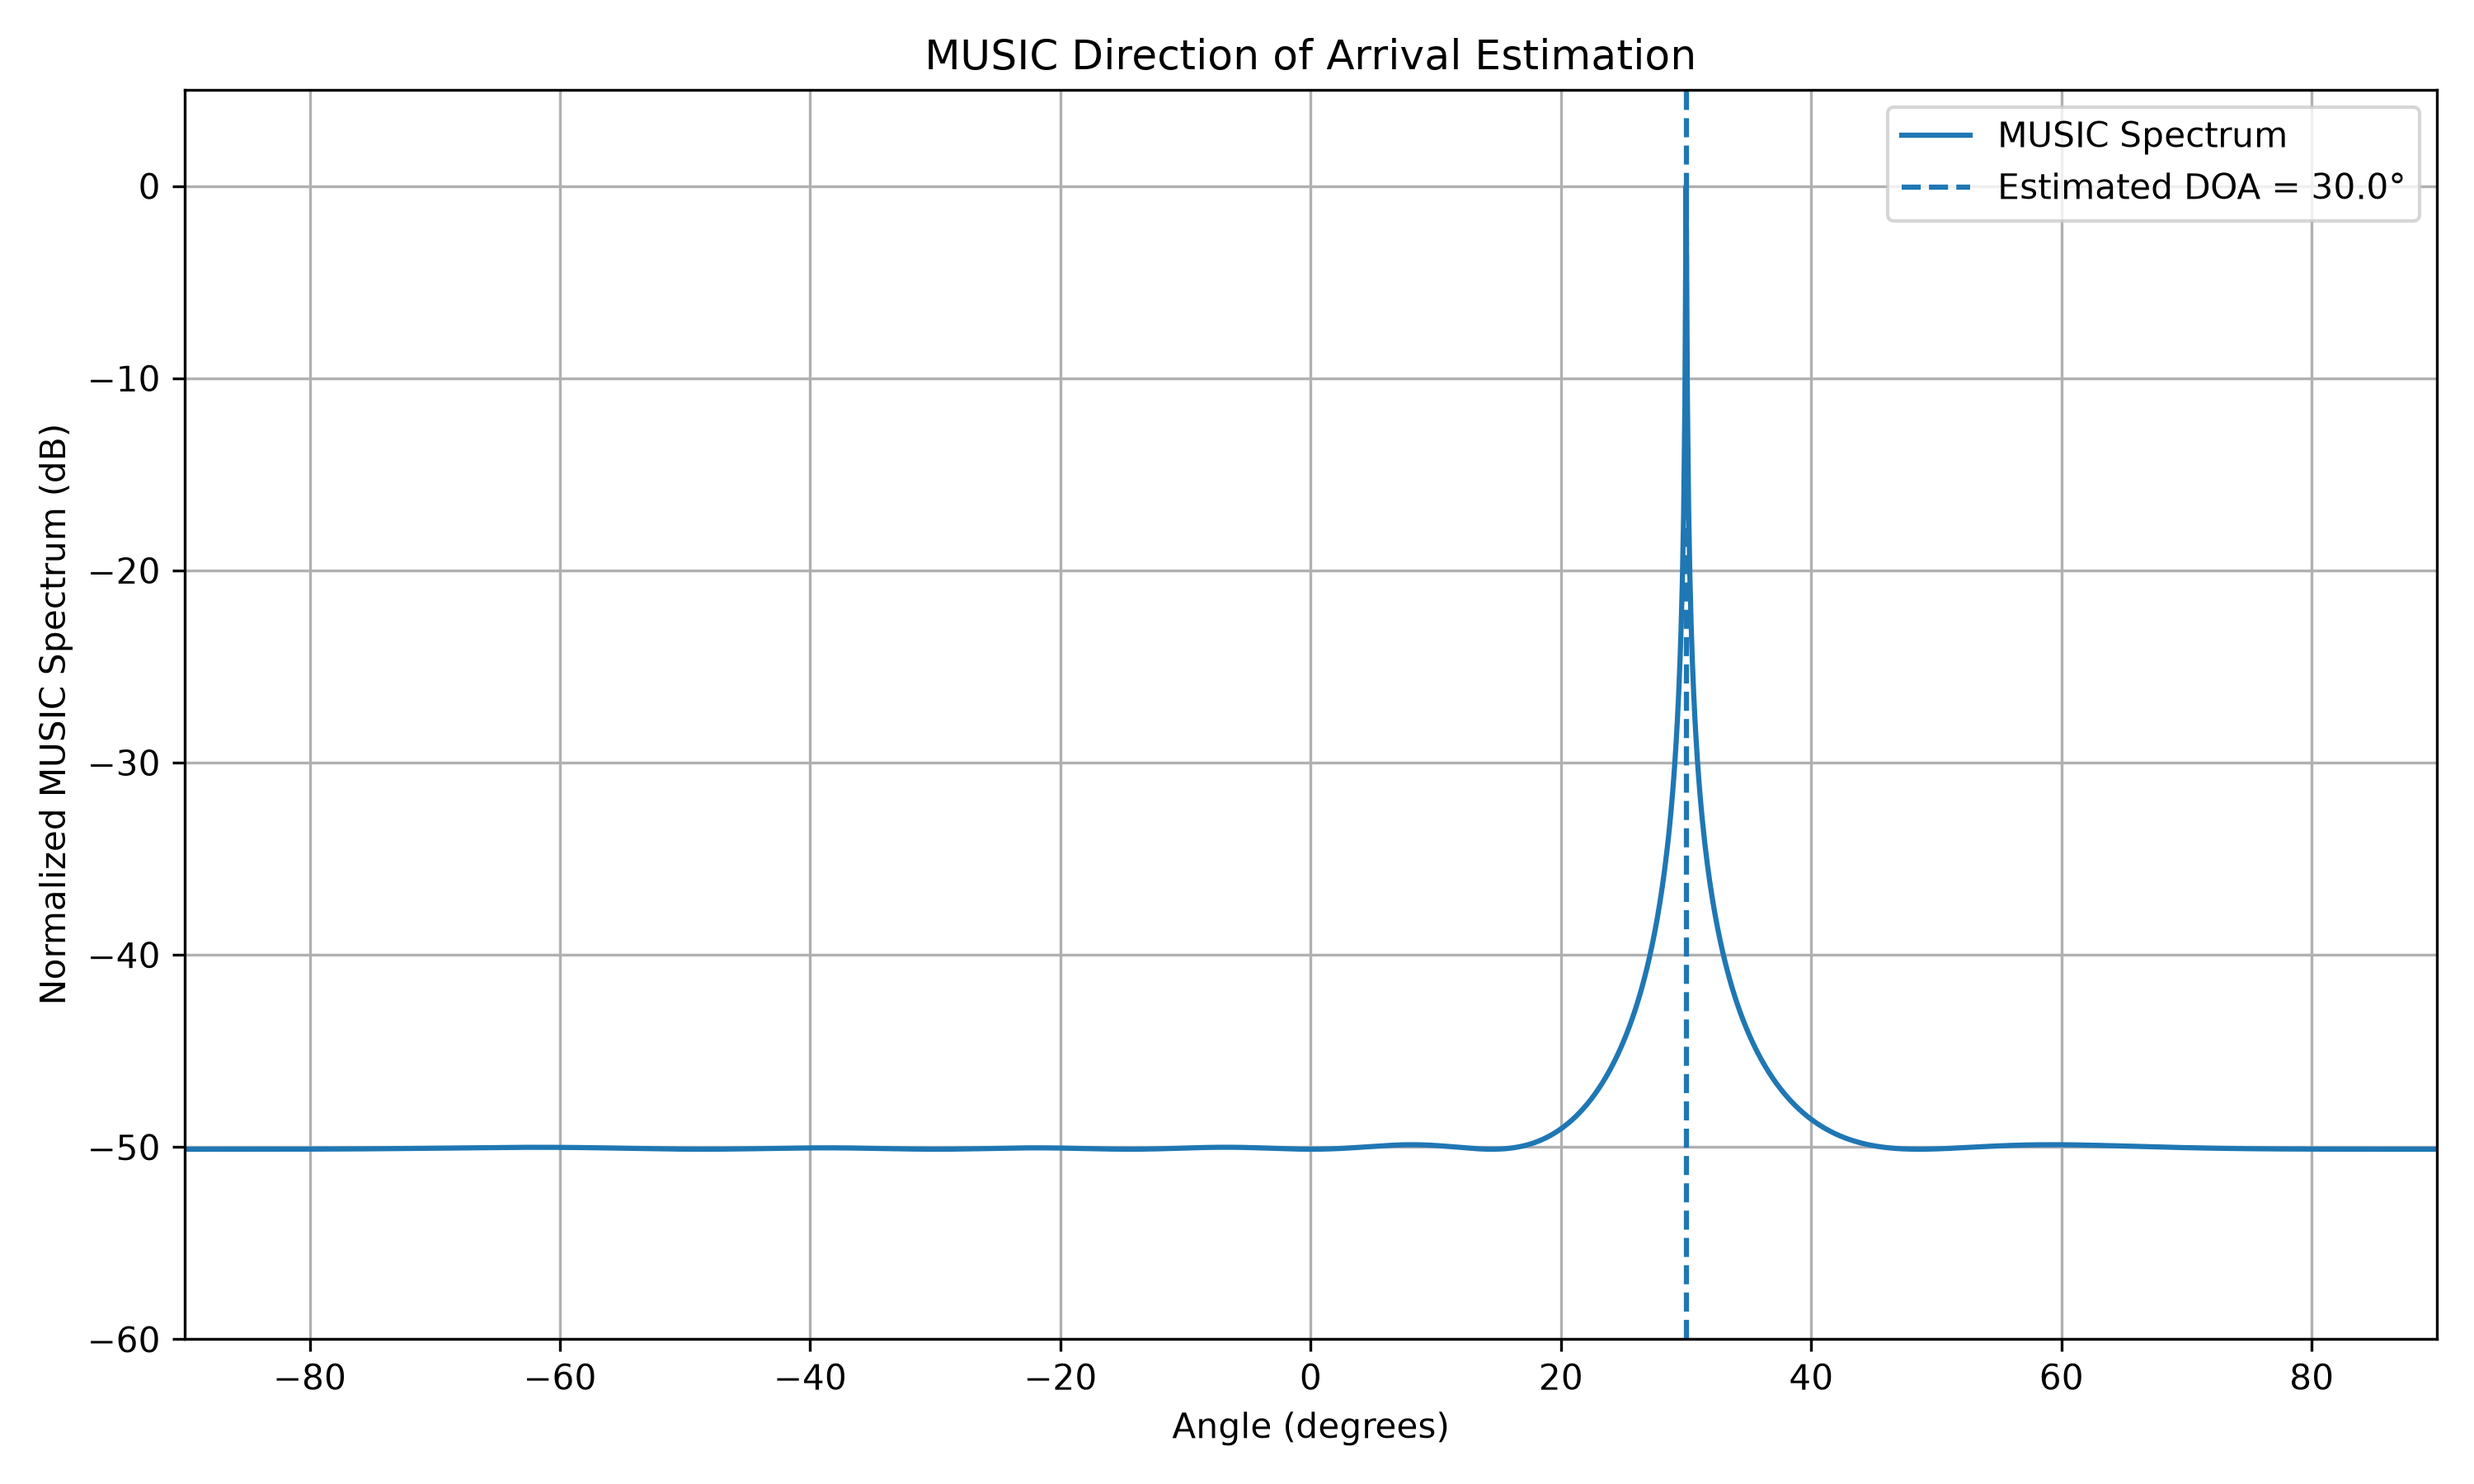
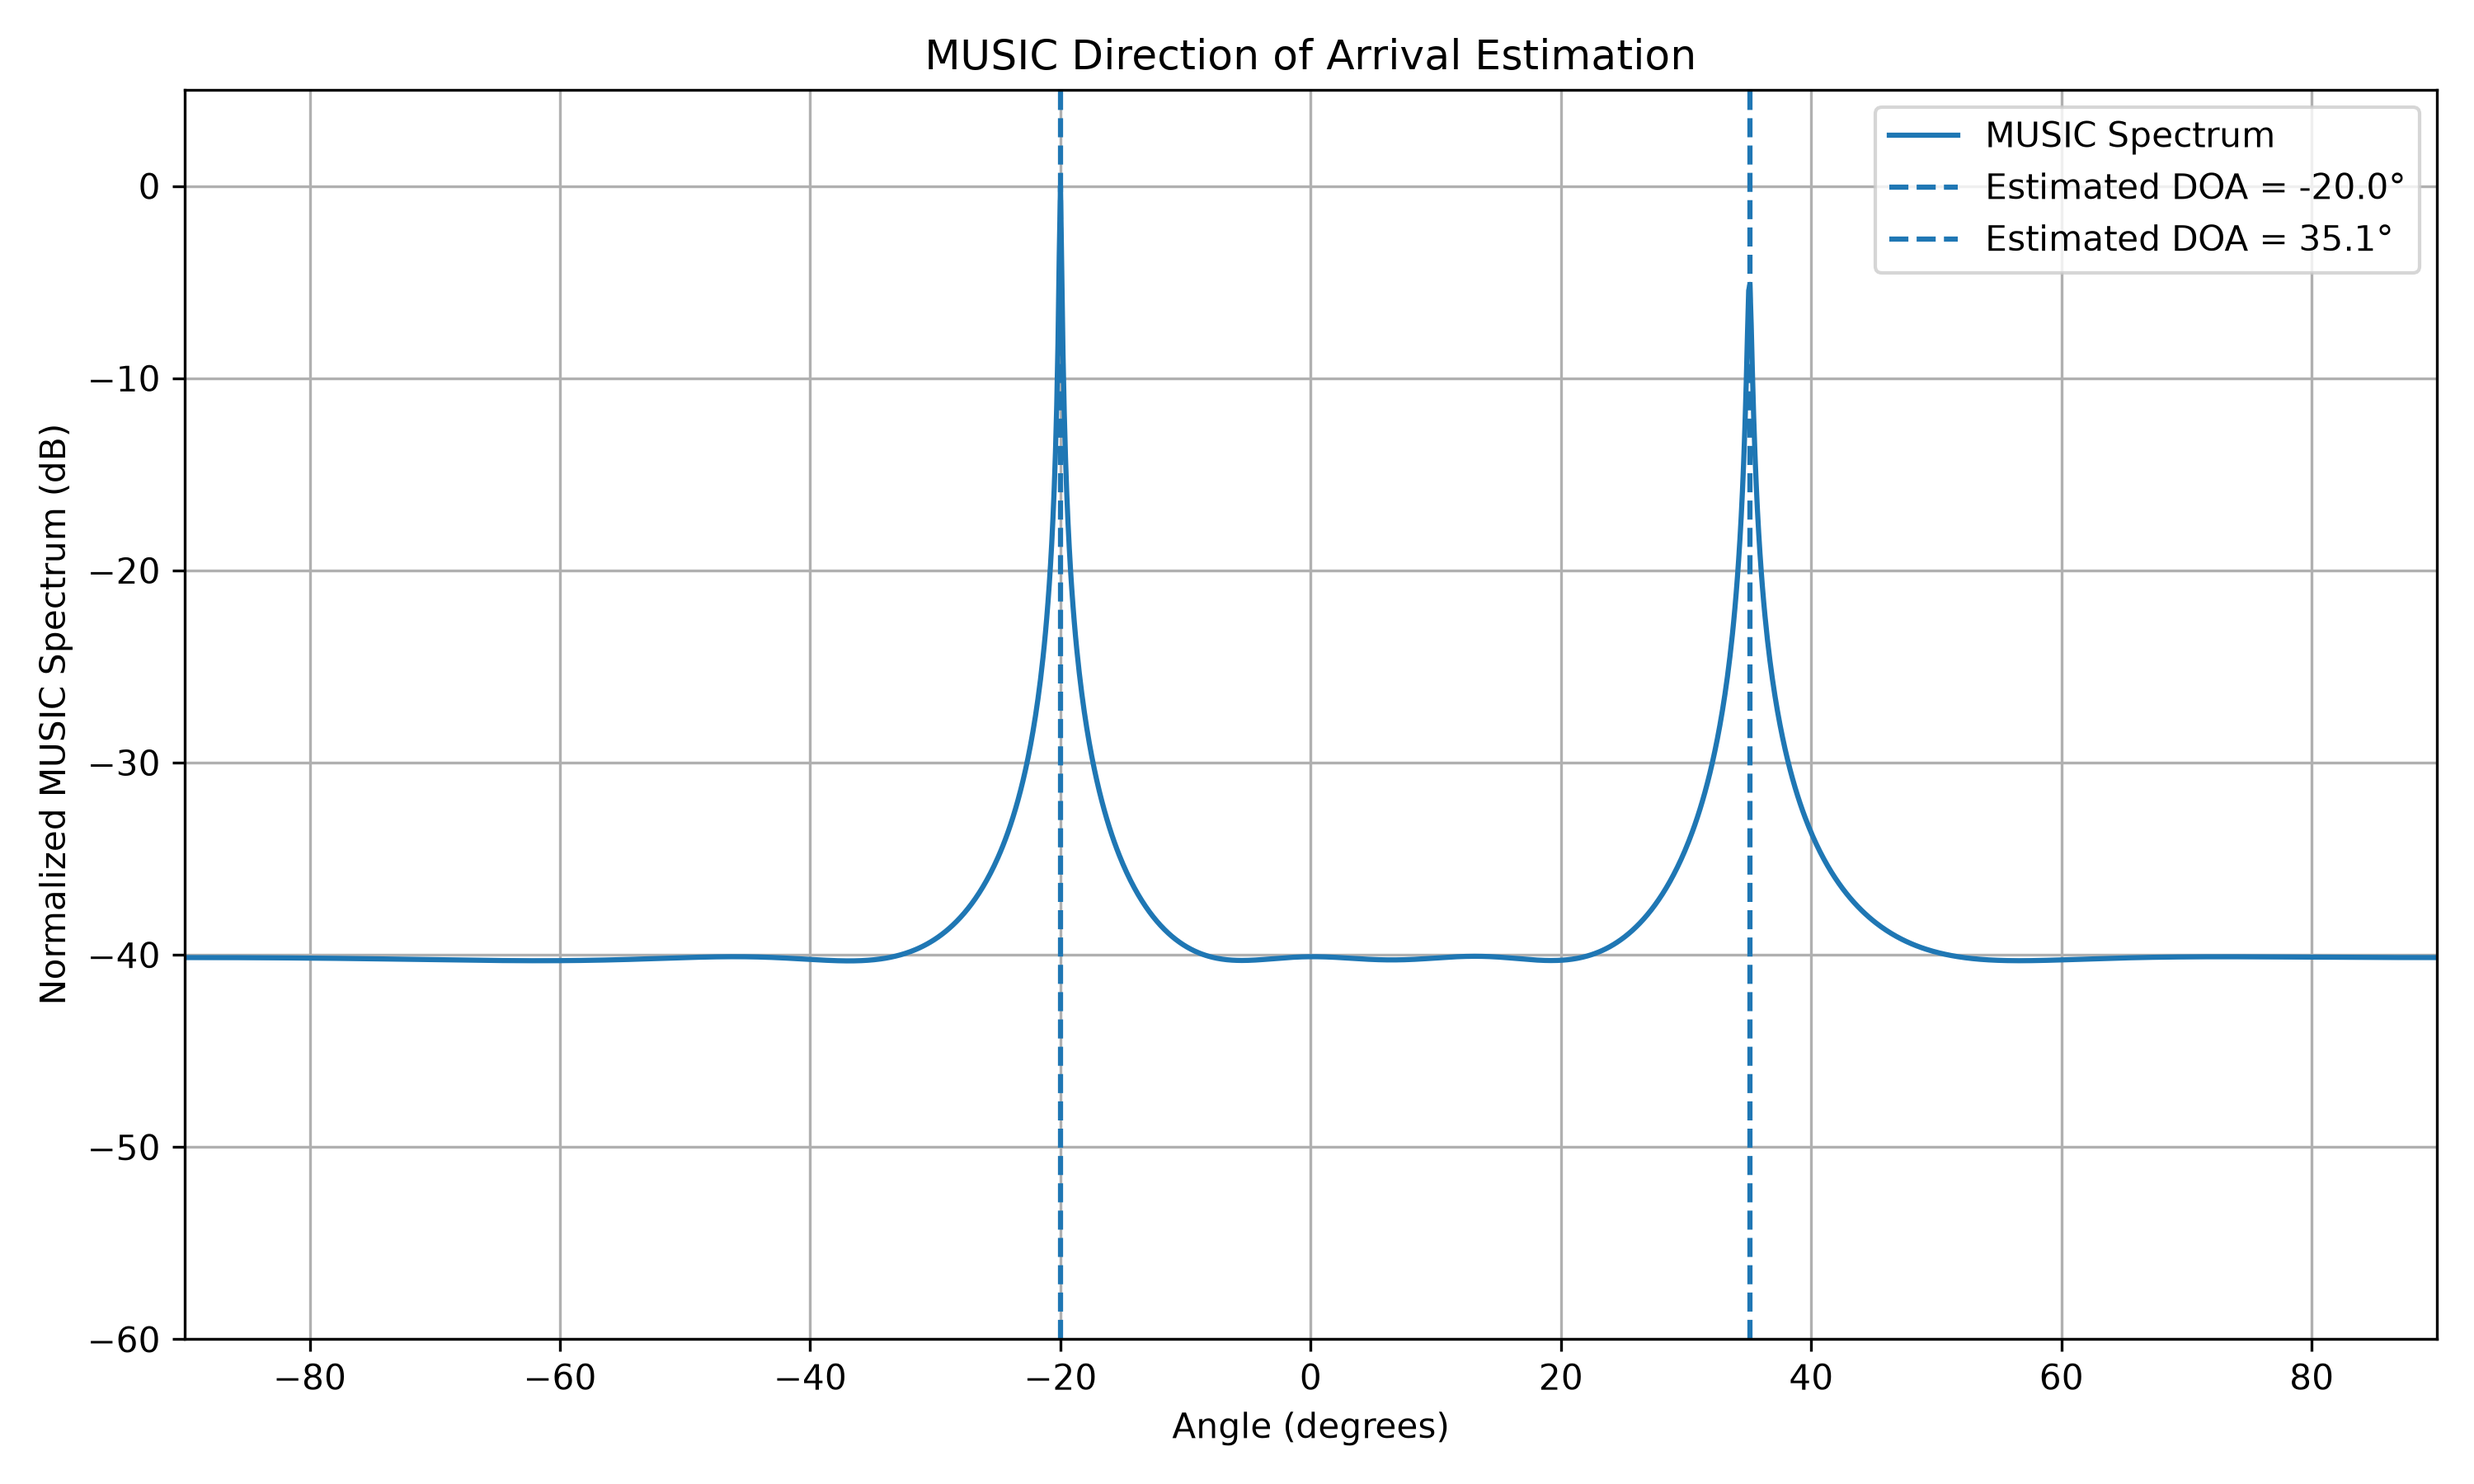
Add multiple-source MUSIC DOA estimation

diff --git a/src/signal_generation.py b/src/signal_generation.py
@@ -101,3 +101,94 @@ def generate_received_signal(
     received_signal = clean_signal + noise
 
     return received_signal
+
+def generate_multiple_received_signal(
+    num_elements,
+    num_samples,
+    spacing,
+    wavelength,
+    angles_deg,
+    snr_db=10.0,
+    seed=42
+):
+    """
+    Generate noisy signals received by a ULA from
+    multiple independent sources.
+
+    Parameters
+    ----------
+    num_elements : int
+        Number of antenna elements.
+
+    num_samples : int
+        Number of snapshots.
+
+    spacing : float
+        Antenna element spacing.
+
+    wavelength : float
+        Signal wavelength.
+
+    angles_deg : list or numpy.ndarray
+        Directions of arrival in degrees.
+
+    snr_db : float
+        Desired signal-to-noise ratio in dB.
+
+    seed : int
+        Random seed for reproducibility.
+
+    Returns
+    -------
+    numpy.ndarray
+        Received array data with shape
+        (num_elements, num_samples).
+    """
+
+    rng = np.random.default_rng(seed)
+
+    angles_deg = np.asarray(angles_deg)
+
+    num_sources = len(angles_deg)
+
+    # Generate independent complex Gaussian source signals.
+    source_signals = (
+        rng.standard_normal((num_sources, num_samples))
+        + 1j * rng.standard_normal((num_sources, num_samples))
+    ) / np.sqrt(2)
+
+    # Normalize each source to unit average power.
+    source_signals /= np.sqrt(
+        np.mean(np.abs(source_signals) ** 2, axis=1)
+    )[:, np.newaxis]
+
+    # Build the steering matrix.
+    steering_matrix = np.column_stack([
+        steering_vector(
+            num_elements=num_elements,
+            spacing=spacing,
+            wavelength=wavelength,
+            angle_deg=angle
+        )
+        for angle in angles_deg
+    ])
+
+    # Received signal:
+    # X = A @ S
+    clean_signal = steering_matrix @ source_signals
+
+    # Generate complex AWGN.
+    signal_power = np.mean(np.abs(clean_signal) ** 2)
+
+    snr_linear = 10 ** (snr_db / 10)
+
+    noise_power = signal_power / snr_linear
+
+    noise = np.sqrt(noise_power / 2) * (
+        rng.standard_normal(clean_signal.shape)
+        + 1j * rng.standard_normal(clean_signal.shape)
+    )
+
+    received_signal = clean_signal + noise
+
+    return received_signal

diff --git a/main.py b/main.py
@@ -1,10 +1,13 @@
 import numpy as np
 import matplotlib.pyplot as plt
 
-from src.signal_generation import generate_received_signal
+from src.signal_generation import generate_multiple_received_signal
 from src.covariance import calculate_covariance_matrix
 from src.eigendecomposition import calculate_eigendecomposition
-from src.music import calculate_music_spectrum, estimate_doa
+from src.music import (
+    calculate_music_spectrum,
+    estimate_multiple_doa
+)
 
 NUM_ELEMENTS = 8
 NUM_SAMPLES = 1000
@@ -12,17 +15,19 @@ NUM_SAMPLES = 1000
 WAVELENGTH = 1.0
 SPACING = WAVELENGTH / 2
 
-DOA = 30.0
-SNR_DB = 20.0
+DOAS = [-20.0, 35.0]
 
+SNR_DB = 10.0
+NUM_SOURCES = len(DOAS)
 
-received_signal = generate_received_signal(
+received_signal = generate_multiple_received_signal(
     num_elements=NUM_ELEMENTS,
     num_samples=NUM_SAMPLES,
     spacing=SPACING,
     wavelength=WAVELENGTH,
-    angle_deg=DOA,
-    snr_db=SNR_DB
+    angles_deg=DOAS,
+    snr_db=SNR_DB,
+    seed=42
 )
 
 covariance_matrix = calculate_covariance_matrix(received_signal)
@@ -32,7 +37,7 @@ eigenvalues, eigenvectors = calculate_eigendecomposition(
 )
 
 ANGLE_GRID = np.linspace(-90.0, 90.0, 1801)
-NUM_SOURCES = 1
+NUM_SOURCES = len(DOAS)
 
 
 music_spectrum = calculate_music_spectrum(
@@ -45,14 +50,16 @@ music_spectrum = calculate_music_spectrum(
 )
 
 
-estimated_doa = estimate_doa(
-    ANGLE_GRID,
-    music_spectrum
+estimated_doas = estimate_multiple_doa(
+    angle_grid=ANGLE_GRID,
+    music_spectrum=music_spectrum,
+    num_sources=NUM_SOURCES
 )
 
+print("\nEstimated DOAs:")
 
-print("\nEstimated DOA:")
-print(f"{estimated_doa:.1f} degrees")
+for doa in estimated_doas:
+    print(f"{doa:.1f} degrees")
 
 # Normalize the MUSIC spectrum and convert to dB
 music_spectrum_db = 10 * np.log10(
@@ -68,11 +75,12 @@ plt.plot(
     label="MUSIC Spectrum"
 )
 
-plt.axvline(
-    estimated_doa,
-    linestyle="--",
-    label=f"Estimated DOA = {estimated_doa:.1f}°"
-)
+for doa in estimated_doas:
+    plt.axvline(
+        doa,
+        linestyle="--",
+        label=f"Estimated DOA = {doa:.1f}°"
+    )
 
 plt.xlabel("Angle (degrees)")
 plt.ylabel("Normalized MUSIC Spectrum (dB)")

diff --git a/src/music.py b/src/music.py
@@ -91,3 +91,76 @@ def estimate_doa(angle_grid, music_spectrum):
     peak_index = np.argmax(music_spectrum)
 
     return angle_grid[peak_index]
+def estimate_multiple_doa(
+    angle_grid,
+    music_spectrum,
+    num_sources,
+    min_peak_separation_deg=2.0
+):
+    """
+    Estimate multiple DOAs from the MUSIC pseudospectrum.
+
+    Parameters
+    ----------
+    angle_grid : numpy.ndarray
+        Scanned angles in degrees.
+
+    music_spectrum : numpy.ndarray
+        MUSIC pseudospectrum.
+
+    num_sources : int
+        Number of expected signal sources.
+
+    min_peak_separation_deg : float
+        Minimum angular separation between detected peaks.
+
+    Returns
+    -------
+    numpy.ndarray
+        Estimated DOAs in ascending order.
+    """
+
+    # Find local maxima in the MUSIC spectrum.
+    peak_indices = []
+
+    for i in range(1, len(music_spectrum) - 1):
+        if (
+            music_spectrum[i] > music_spectrum[i - 1]
+            and music_spectrum[i] > music_spectrum[i + 1]
+        ):
+            peak_indices.append(i)
+
+    if not peak_indices:
+        raise RuntimeError("No MUSIC spectrum peaks were found.")
+
+    # Rank peaks from strongest to weakest.
+    peak_indices.sort(
+        key=lambda i: music_spectrum[i],
+        reverse=True
+    )
+
+    selected_indices = []
+
+    for index in peak_indices:
+
+        angle = angle_grid[index]
+
+        too_close = any(
+            abs(angle - angle_grid[selected])
+            < min_peak_separation_deg
+            for selected in selected_indices
+        )
+
+        if not too_close:
+            selected_indices.append(index)
+
+        if len(selected_indices) == num_sources:
+            break
+
+    if len(selected_indices) < num_sources:
+        raise RuntimeError(
+            f"Only {len(selected_indices)} distinct peaks found; "
+            f"expected {num_sources}."
+        )
+
+    return np.sort(angle_grid[selected_indices])
